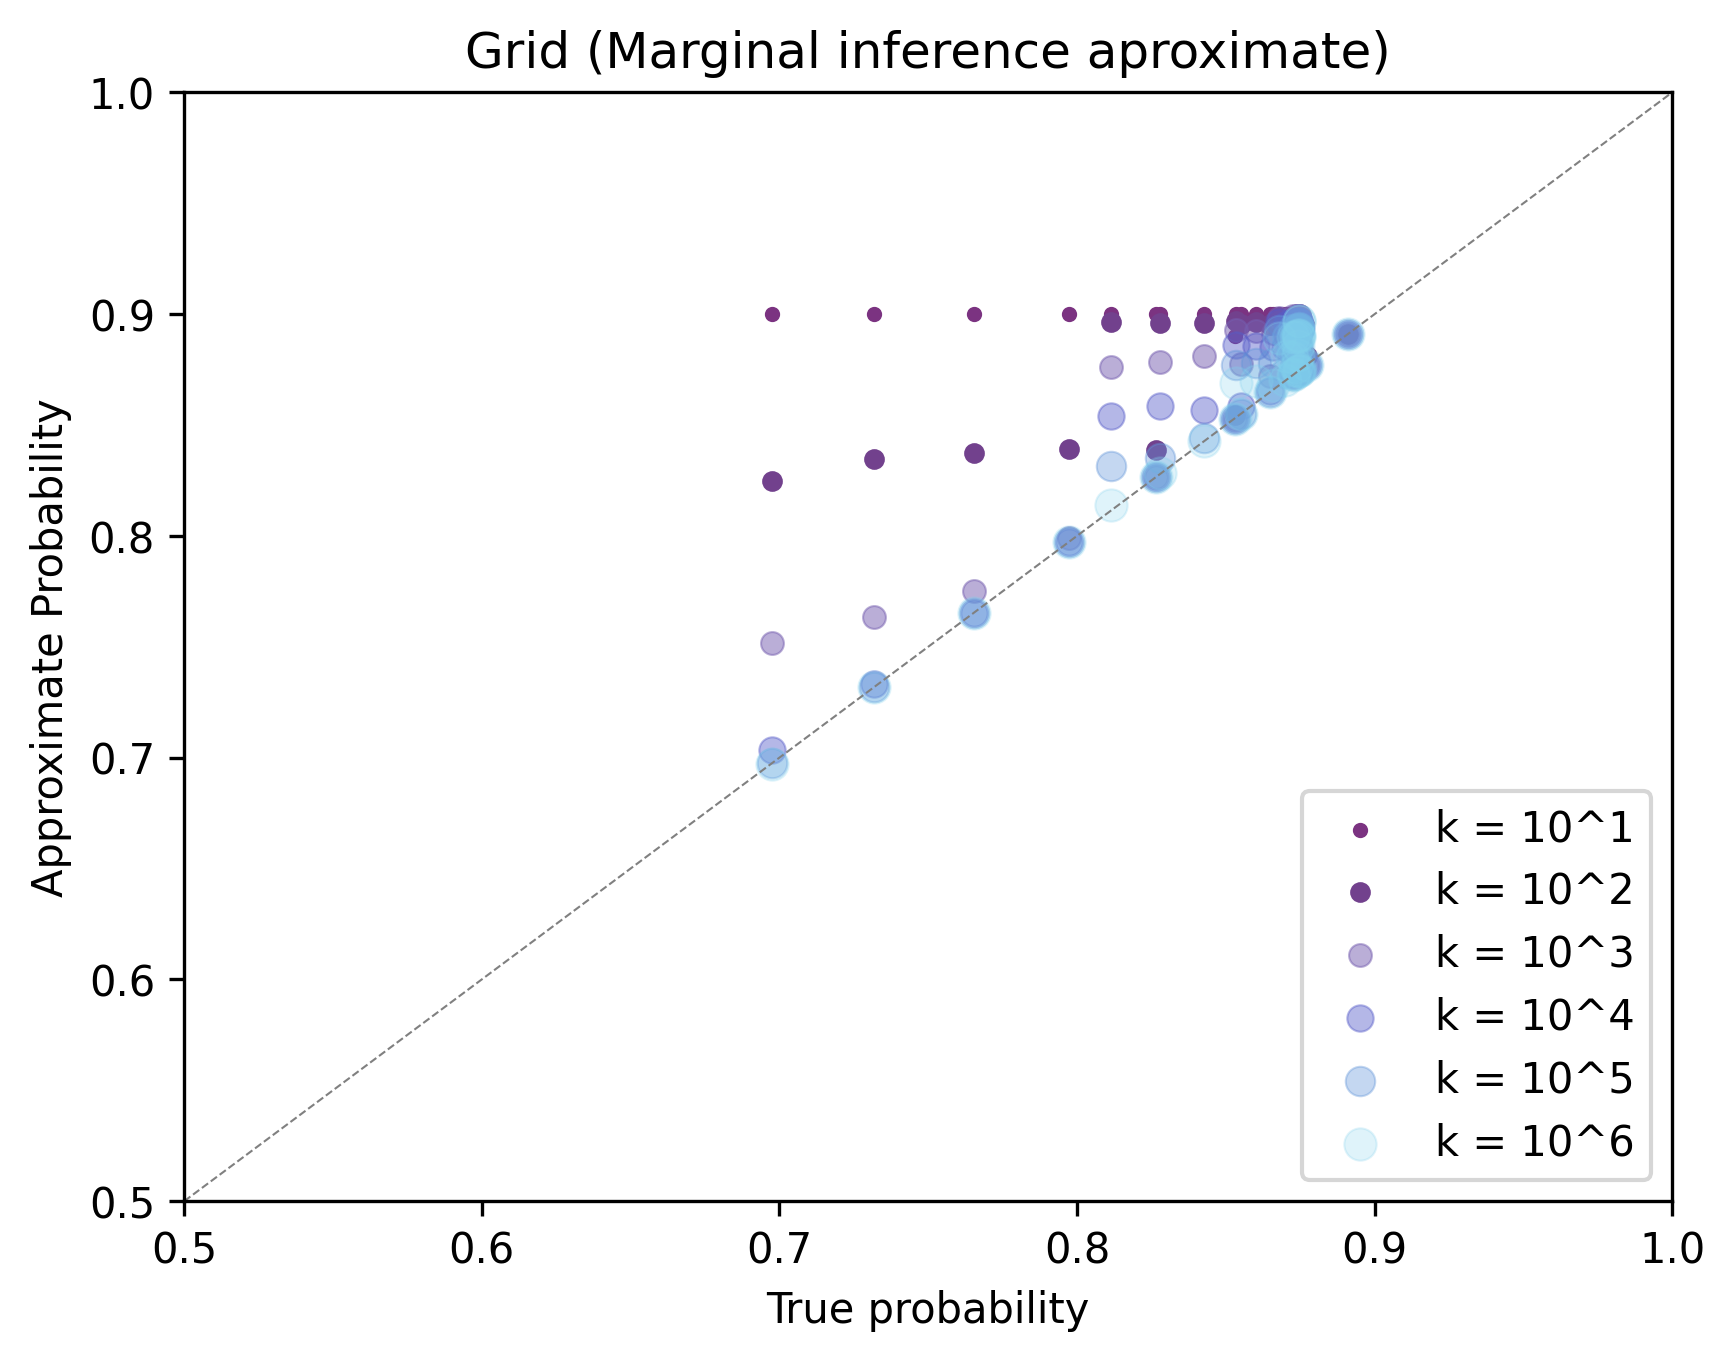
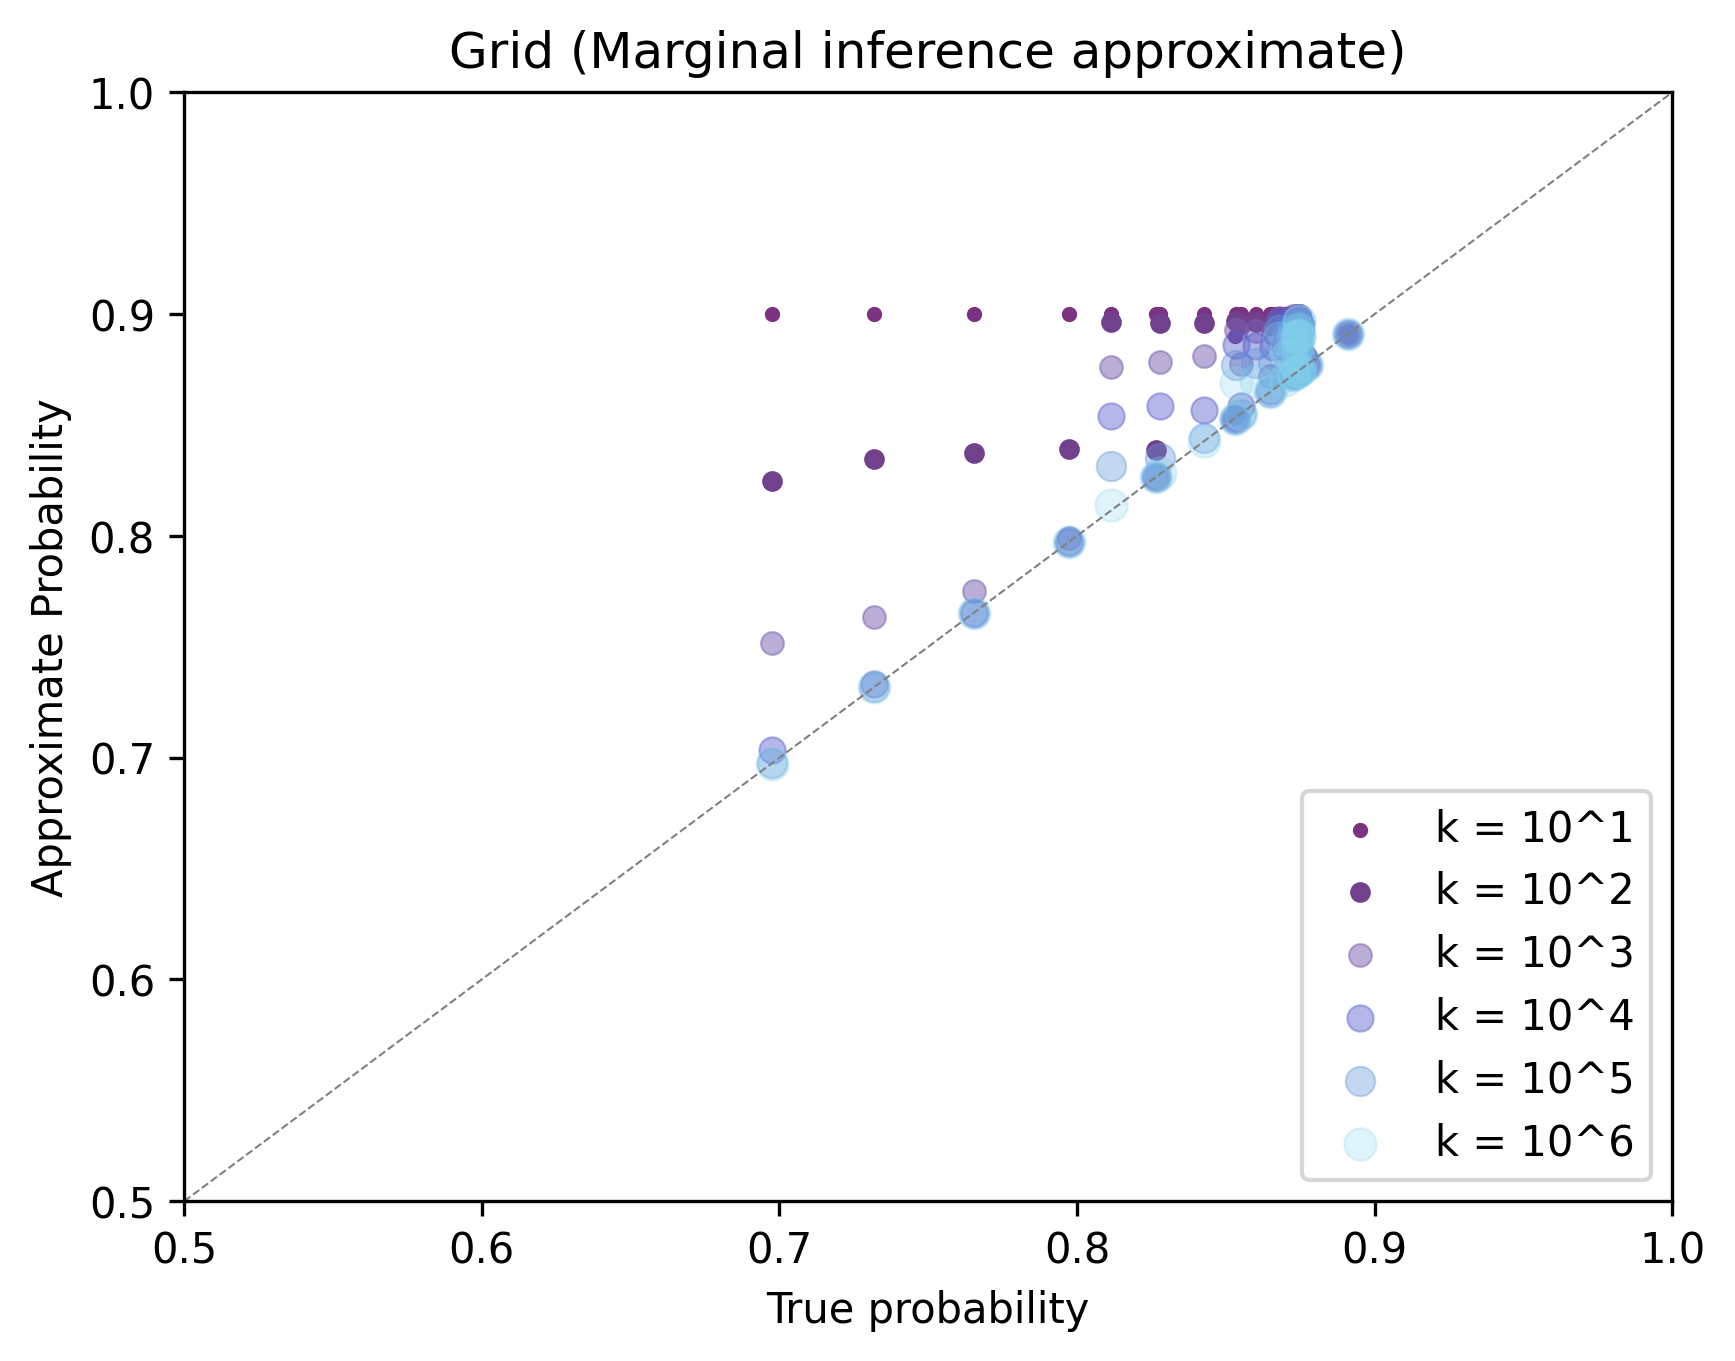
fixed ticks and typos

Changed region(s): [[0.249, 0.0, 0.8092, 0.0617]]

diff --git a/benchmarks/scripts/plot.py b/benchmarks/scripts/plot.py
@@ -74,9 +74,10 @@ parser.add_argument("--ignore_any",
 parser.add_argument("--y", type=str, default=None, help="Name for the y axis")
 parser.add_argument("--x", type=str, default="", help="Name for the x axis")
 parser.add_argument("--title", type=str, default=None, help="Title")
-parser.add_argument("--range-from", type=int, default=0, help="Start range")
-parser.add_argument("--range-to", type=int, default=None, help="End range")
-parser.add_argument("--range-every", type=int, default=1, help="Every range")
+parser.add_argument("--range",
+                    type=str,
+                    default=None,
+                    help="Range for x-axis ticks")
 args = parser.parse_args()
 
 
@@ -95,7 +96,7 @@ class ParseInstanceNames:
         return i[8:].split('.')[0]
 
     def blocks(self, i):
-        s=  i.split('.')[0].replace('blockmap', '').replace('L', '')
+        s = i.split('.')[0].replace('blockmap', '').replace('L', '')
         return s
 
     def alzheimer_problog(self, i):
@@ -181,7 +182,8 @@ def clean_df(df):
         # Keep only size 20 domain
         df = df[[x.startswith('20')
                  for x in df['instance-name']]].reset_index()
-        df['instance-name'] = df['instance-name'].apply(lambda x: x.split('_')[1])
+        df['instance-name'] = df['instance-name'].apply(
+            lambda x: x.split('_')[1])
     elif dom == 'alzheimer_problog' or dom == 'smokers':
         # Sort by ascending order (instance names are integers)
         df.iloc[:, 0] = pd.to_numeric(df.iloc[:, 0], downcast="integer")
@@ -320,14 +322,13 @@ if __name__ == "__main__":
         time_df.loc[time_df['instance-name'].isin(plingo_fixes),
                     'plingo'] = 1200.0
 
-
-    GREEN="#77B762"
-    BLUE="#4477CC"
-    PURPLE="#5C4B84"
-    PURPLE_LIGHT="#9477BF"
-    ORANGE="#D78C1F"
-    RED="#CF3A19"
-    YELLOW="#D7CF1F"
+    GREEN = "#77B762"
+    BLUE = "#4477CC"
+    PURPLE = "#5C4B84"
+    PURPLE_LIGHT = "#9477BF"
+    ORANGE = "#D78C1F"
+    RED = "#CF3A19"
+    YELLOW = "#D7CF1F"
     approaches_colors = {
         "plingo": BLUE,
         "plingo-unsat": "#7a965e",
@@ -354,8 +355,7 @@ if __name__ == "__main__":
 
     title = f"{dom} {opt}"
     if args.title:
-        title= args.title
-
+        title = args.title
 
     if args.type == "table":
         # -------- Save CVS
@@ -441,7 +441,10 @@ if __name__ == "__main__":
         if not os.path.exists(dir_name):
             os.makedirs(dir_name)
 
-        colors = ["#7B3381","#72418D","#765FB080","#565CC970","#6396DA60","#82D1ED40"]
+        colors = [
+            "#7B3381", "#72418D", "#765FB080", "#565CC970", "#6396DA60",
+            "#82D1ED40"
+        ]
         # for labels in [app_names[:3], app_names[3:]]:
         for i, name in enumerate(app_names):
             # min = str(labels[0][1]).split('_')[1][1:]
@@ -467,7 +470,7 @@ if __name__ == "__main__":
                         y=query_df[name].to_numpy(),
                         marker='o',
                         label=label,
-                        s=(i+1)*10,
+                        s=(i + 1) * 10,
                         c=colors[i],
                         lw=0.5)
 
@@ -479,18 +482,17 @@ if __name__ == "__main__":
         plt.legend(loc='lower right')
 
         plt.xlabel(args.x)
-        # plt.xticks(rotation='horizontal')
         plt.ylabel(args.y)
 
         plt.savefig(file_name_img, dpi=300, bbox_inches='tight')
         print("Saved {}".format(file_name_img))
         plt.clf()
 
-    elif args.type == 'cactus' or args.type=='line':
-        is_cactus =  args.type == 'cactus'
+    elif args.type == 'cactus' or args.type == 'line':
+        is_cactus = args.type == 'cactus'
         if is_cactus:
             time_df.replace(1200, 1e5, inplace=True)
-        
+
         print(time_df)
         app_names = time_df.columns[1:].sort_values()
         file_name_img = f'plots/img/{dom}/{prefix}-{args.type}.png'
@@ -508,24 +510,25 @@ if __name__ == "__main__":
             if name.startswith('z'):
                 name = f'k = 10^{len(name[2:])}'
                 ls = 'dashed'
-
-            x = np.arange(len(runtimes))
+            if is_cactus:
+                x = np.arange(len(runtimes))
+            else:
+                x = time_df['instance-name'].to_numpy()
             color = approaches_colors[name]
-            plt.plot(
-                x,
-                runtimes,
-                ls=ls,
-                color=color,
-                lw=1,
-                marker=approaches_markers[name],
-                ms=3,
-                label=name)
+            plt.plot(x,
+                     runtimes,
+                     ls=ls,
+                     color=color,
+                     lw=1,
+                     marker=approaches_markers[name],
+                     ms=3,
+                     label=name)
 
         plt.xlim(left=0)
         if is_cactus:
             plt.ylim(bottom=0, top=800)
         # else:
-            # plt.ylim(bottom=0)
+        # plt.ylim(bottom=0)
         # plt.grid()
         # print(time_df['instance-name'])
         # print(list(time_df['instance-name']))
@@ -533,17 +536,11 @@ if __name__ == "__main__":
 
         plt.title(title, fontsize=12, fontweight=0)
         plt.xlabel(args.x)
-        l = list(time_df['instance-name'])
-        # print(l)
-        f = args.range_from
-        t = args.range_to if args.range_to is not None else len(l)
-        e = args.range_every
-        ticks_num = list(range(f,t,e))
-        ticks_label = [l[x] for x in ticks_num]
-        # print(ticks_label)
-        if is_cactus:
-            ticks_label = ticks_num
-        plt.xticks(ticks = ticks_num , labels = ticks_label)
+
+        if args.range is not None:
+            tr = [int(i) for i in args.range.split(',')]
+            plt.xticks(list(range(tr[0], tr[1], tr[2])))
+        # plt.xticks(ticks=ticks_num, labels=ticks_label)
         # plt.xticks(list(range(0,3000,500)))
         plt.ylabel(args.y)
 
